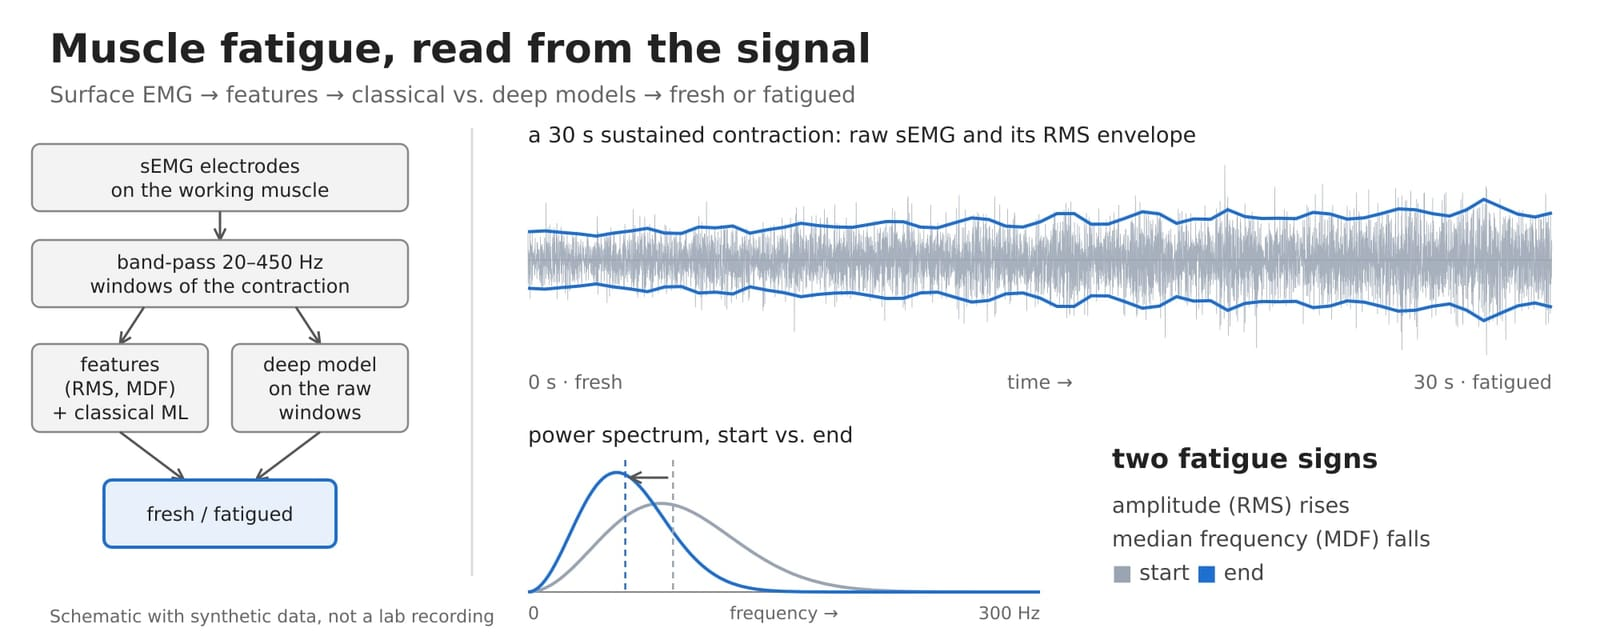
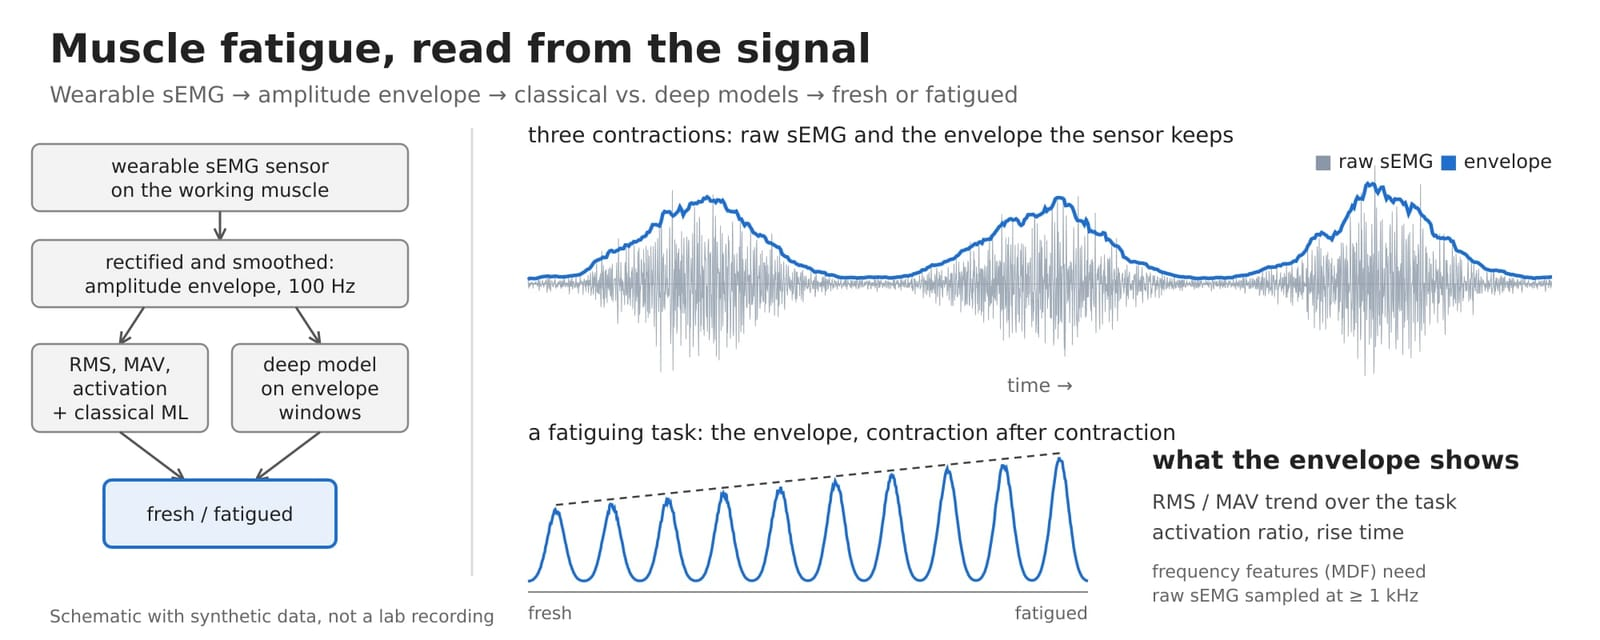
Biomedical AI: redraw the sEMG figure around the amplitude envelope
The lab's wearable sensor keeps a 100 Hz amplitude envelope, not raw sEMG, so
median-frequency features cannot be computed from it. The schematic now
shows that set-up: raw sEMG with the envelope the sensor keeps, and the
envelope over a fatiguing task, read through amplitude features (RMS, MAV,
activation). It notes that frequency features need raw sEMG at 1 kHz or
more. The card text and alt text follow. Still synthetic data, labelled so.

Claude-Session: https://claude.ai/code/session_01MQT9wbX2Pbf3cQZ1SxSi9s

diff --git a/src/content/research/biomedical-ai/en.md b/src/content/research/biomedical-ai/en.md
@@ -14,8 +14,8 @@ showcase:
     href: "https://github.com/brian10420/EchoMind-Mamba-VA-SER"
   - title: "Muscle fatigue from surface EMG"
     image: ./semg-fatigue.jpg
-    alt: "Schematic of muscle-fatigue detection. Surface EMG electrodes, a 20 to 450 Hz band-pass filter, then either RMS and median-frequency features with classical machine learning or a deep model on the raw windows, ending in fresh or fatigued. Beside it, a 30-second contraction whose RMS envelope slowly grows, and two power spectra whose median frequency moves lower from start to end."
-    text: "As a muscle tires during a sustained contraction, its EMG grows larger and its median frequency falls. We compare classical features with deep models for detecting fatigue. The figure is a schematic drawn from synthetic data."
+    alt: "Schematic of muscle-fatigue detection. A wearable sEMG sensor keeps the rectified and smoothed amplitude envelope at 100 Hz; then either RMS, MAV and activation features with classical machine learning, or a deep model on envelope windows, decides fresh or fatigued. Beside it, three contractions of raw sEMG with the envelope traced over them, and the envelope of a fatiguing task whose peaks climb from one contraction to the next."
+    text: "A wearable sensor records the amplitude envelope of the muscle signal, and fatigue shows up in how that amplitude changes over a task. We compare classical features with deep models for detecting it. The figure is a schematic drawn from synthetic data."
     href: "https://hdl.handle.net/11296/yt5d6s"
 ---
 

diff --git a/src/content/research/biomedical-ai/zh.md b/src/content/research/biomedical-ai/zh.md
@@ -14,8 +14,8 @@ showcase:
     href: "https://github.com/brian10420/EchoMind-Mamba-VA-SER"
   - title: "以表面肌電訊號偵測肌肉疲勞"
     image: ./semg-fatigue.jpg
-    alt: "肌肉疲勞偵測示意圖。表面肌電電極、20 到 450 Hz 帶通濾波，接著分成兩路：RMS 與中位頻率特徵加傳統機器學習，或直接以深度模型處理原始視窗，最後判斷是否疲勞。右側是 30 秒持續出力的訊號，RMS 包絡逐漸變大，以及開始與結束時的功率頻譜，中位頻率往低頻移動。"
-    text: "持續出力時，肌肉疲勞會讓肌電訊號振幅變大、中位頻率下降。我們比較傳統特徵方法與深度學習模型的偵測效果。此圖為示意圖，以合成資料繪製。"
+    alt: "肌肉疲勞偵測示意圖。穿戴式肌電感測器存下整流、平滑後的 100 Hz 振幅包絡，接著分成兩路：RMS、MAV 與活化比例等特徵加傳統機器學習，或以深度模型處理包絡視窗，最後判斷是否疲勞。右側是三次收縮的原始肌電訊號與其包絡，以及疲勞任務中包絡峰值一次比一次高。"
+    text: "穿戴式感測器記錄肌肉訊號的振幅包絡，疲勞會反映在任務中振幅的變化。我們比較傳統特徵方法與深度學習模型的偵測效果。此圖為示意圖，以合成資料繪製。"
     href: "https://hdl.handle.net/11296/yt5d6s"
 ---
 
